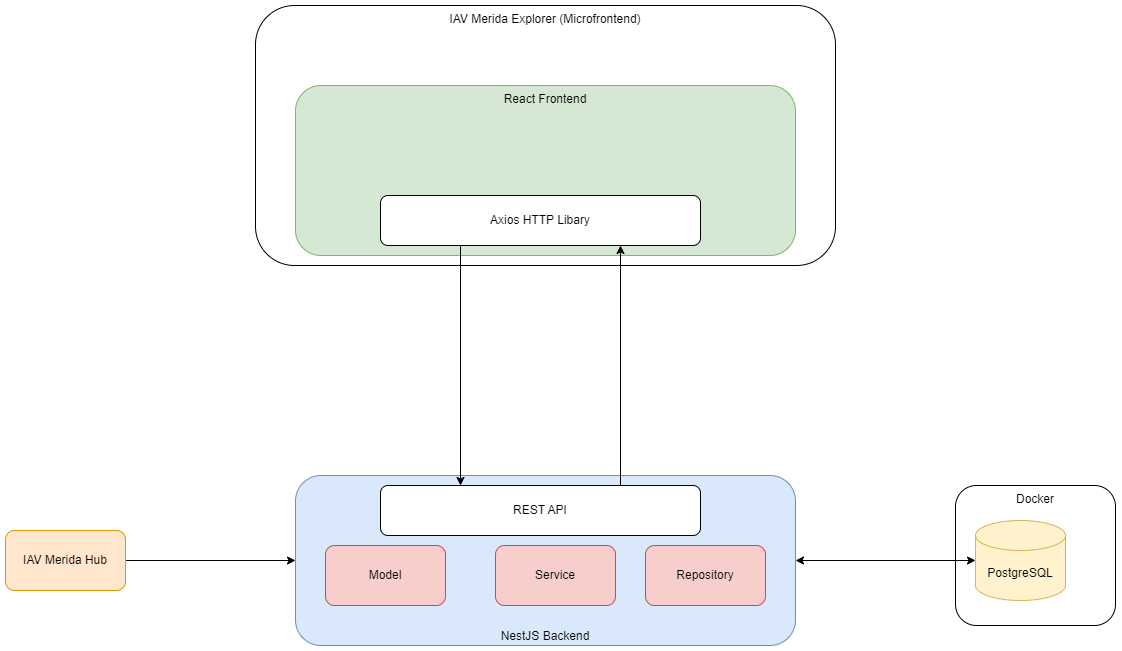
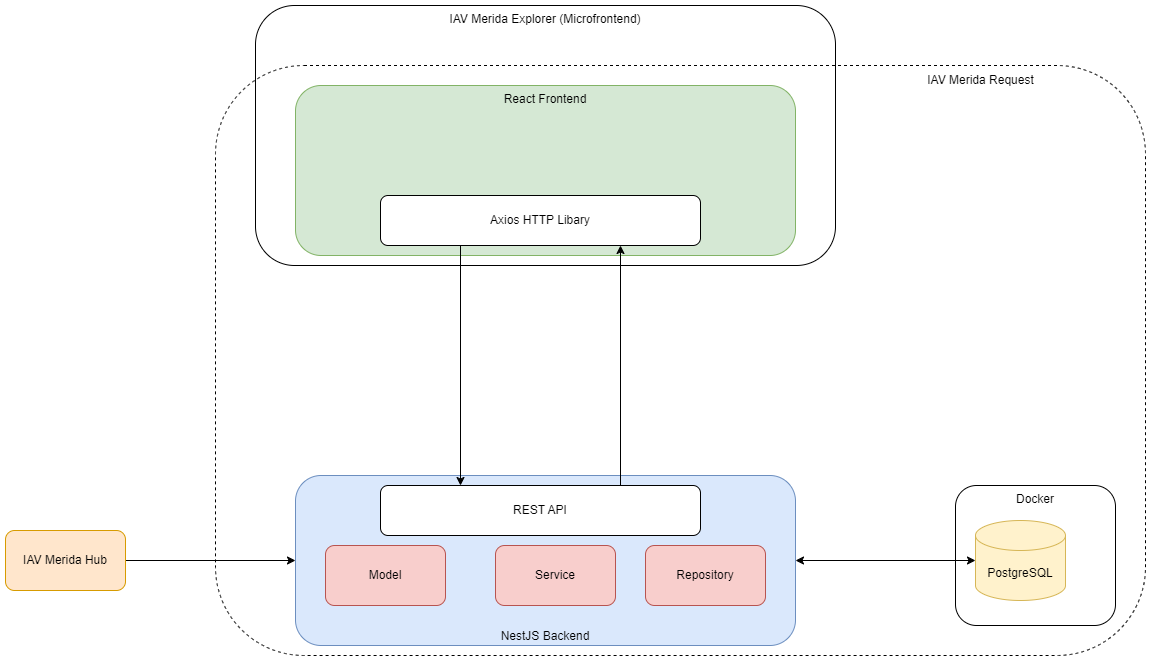
finish

diff --git a/chapter/5-chapter.tex b/chapter/5-chapter.tex
@@ -1,5 +1,5 @@
 \chapter{Konzeption}
-In diesem Kapitel wird der konzeptionelle Entwurf der entwickelten Lösung detailliert beschrieben. Die Konzeption umfasst alle wesentlichen Aspekte der Benutzeroberfläche, der Prozessabläufe sowie der Systemarchitektur. Dabei war es entscheidend, sowohl die technischen Anforderungen als auch die Nutzerbedürfnisse optimal zu berücksichtigen.
+In diesem Kapitel wird der konzeptionelle Entwurf der entwickelten Lösung detailliert beschrieben. Die Konzeption umfasst alle wesentlichen Aspekte der Benutzeroberfläche, der Prozessabläufe sowie der Systemarchitektur. Dabei war es entscheidend, sowohl die Nutzerbedürfnisse als auch die technischen Anforderungen optimal zu berücksichtigen.
 \newline
 Zunächst werden die Mockups vorgestellt, die die geplanten Benutzeroberflächen visualisieren. Diese grafischen Entwürfe dienen als Grundlage für die spätere Implementierung der Benutzeroberfläche und helfen dabei, die Nutzerinteraktionen und das Design bereits in der frühen Phase des Projekts zu planen.
 \newline
@@ -8,7 +8,7 @@ Daraufhin wird der Workflow des Anfrageprozesses dargestellt, um die Abfolge und
 Abschließend wird die Systemarchitektur präsentiert, die das fundamentale Gerüst der gesamten Anwendung bildet. Die Architektur beschreibt die wichtigsten Komponenten und deren Interaktionen, um eine stabile, skalierbare und erweiterbare Lösung zu gewährleisten.
 \newpage
 \section{Mockups}
-Im Verlauf der Entwicklung des IAV Merida Request wurden regelmäßig Gespräche mit verschiedenen Stakeholdern geführt. Diese Interaktionen führten zur schrittweisen Anpassung der Mockups, die auf den gewonnenen Erkenntnissen basierten. Dadurch konnten die Mockups kontinuierlich an die sich entwickelnden Anforderungen und das gewünschte User Interface angepasst werden. Im Folgenden wird der Entwicklungsprozess der Mockups sowie deren verschiedene Versionen detailliert dargestellt.
+Im Verlauf der Entwicklung des IAV Merida Request wurden regelmäßig Gespräche mit verschiedenen Stakeholdern geführt. Dadurch konnten die Mockups kontinuierlich an die sich entwickelnden Anforderungen und das gewünschte User Interface angepasst werden. Im Folgenden wird der Entwicklungsprozess der Mockups sowie deren verschiedene Versionen detailliert dargestellt.
 \subsection*{Mockup 1}
 In der ersten Version der Mockups, s. Abbildung \ref{fig:MockUps1.0}, orientierten sich die Designentscheidungen stark am BMW Request Channel. Die Struktur und die Benutzeroberfläche in dieser Phase waren relativ einfach gehalten, mit einem klaren Fokus auf die wesentlichen Eingabefelder und -optionen, die für das Anfordern von Daten und Analysen benötigt wurden.
 \newline
@@ -44,7 +44,7 @@ Wichtige Änderungen in dieser Version:
 \begin{figure}[H]
     \centering
     \includegraphics[scale=.25]{media/MockUps3.0}
-    \caption{Mockup 3}
+    \caption{Mockup 3 - Für eine Version in höherer Auflösung siehe Anhang \ref{fig: MockUps3.0_1} und \ref{fig: MockUps3.0_2}}
     \label{fig:MockUps3.0}
 \end{figure}
 Zusammenfassend lässt sich sagen, dass sich das IAV Merida Request Tool durch einen iterativen Entwicklungsprozess erheblich weiterentwickelt hat. Während Mockup 1 noch stark an bestehende Lösungen angelehnt war, strebte Mockup 2 bereits ein eigenständiges Design mit klareren Nutzerführungen an. Mit Mockup 3 erreicht das Tool nun ein hohes Maß an Benutzerfreundlichkeit, Flexibilität und Funktionalität, dass den Anforderungen der Benutzer in vollem Umfang gerecht wird.
@@ -77,7 +77,7 @@ Sobald die Analyse abgeschlossen und alle offenen Punkte geklärt sind, wird das
 Die Architektur der entwickelten Softwarelösung basiert auf modernen, skalierbaren und wartbaren Technologien, die auf die spezifischen Anforderungen des Projekts abgestimmt sind. Das System besteht aus drei Hauptkomponenten: dem Backend, das mit NestJS entwickelt wurde, dem Frontend das auf React basiert und einer relationalen Datenbank, die durch PostgreSQL unterstützt wird. Um eine flexible und isolierte Datenbankumgebung zu gewährleisten wird PostgreSQL über Docker containerisiert, was eine einfache Bereitstellung und Verwaltung verschiedener Entwicklungs- und Produktionsumgebungen ermöglicht (s. Abbildung \ref{fig:Architekturdiagramm}). 
 \newline
 \newline
-Das Frontend wird im Rahmen einer Microfrontend-Architektur entwickelt, bei der das React-basierte Interface als eine von mehreren Anwendungen innerhalb eines größeren Systems integriert wird. Diese Architektur ermöglicht es, unterschiedliche Frontends, die mit verschiedenen Technologien entwickelt wurden, nahtlos zu kombinieren und gleichzeitig eine modulare Struktur beizubehalten. Jede Anwendung (Microfrontend) ist in sich eigenständig, kann aber über standardisierte Schnittstellen miteinander kommunizieren. Auf diese Weise können unterschiedliche Technologien und Teams gleichzeitig an verschiedenen Microfrontends arbeiten, was die Flexibilität und Skalierbarkeit des Systems erhöht.
+Das Frontend wird als Teil einer Microfrontend-Architektur entwickelt, wobei das React-basierte Interface mithilfe von Webpack Module Federation eingebunden wird.Diese Architektur ermöglicht es, unterschiedliche Frontends, die mit verschiedenen Technologien entwickelt wurden, nahtlos zu kombinieren und gleichzeitig eine modulare Struktur beizubehalten. Jede Anwendung (Microfrontend) ist in sich eigenständig, kann aber über standardisierte Schnittstellen miteinander kommunizieren. Auf diese Weise können unterschiedliche Technologien und Teams gleichzeitig an verschiedenen Microfrontends arbeiten, was die Flexibilität und Skalierbarkeit des Systems erhöht.
 \newline
 \newline
 NestJS bietet eine robuste und strukturierte Grundlage für die Backend-Entwicklung. Die serviceorientierte Architektur in Kombination mit der \ac{MVC}-Ansatz, wie ihn NestJS vorgibt, stellt sicher, dass die Geschäftslogik effizient isoliert und die verschiedenen Komponenten voneinander getrennt sind.
@@ -94,11 +94,11 @@ Mittels der folgenden Abbildung wird verdeutlicht, wie die einzelnen Schichten m
 \end{figure}
 Ein zusätzliches Komponentendiagramm (s. Abbildung \ref{fig:Komponentendiagramm}) zeigt die Schnittstellen zwischen Backend, Frontend und Datenbank sowie die Verbindung zu externen Systemen. Es verdeutlicht, wie das Backend die im IAV Merida Hub gespeicherten Flotten- und Fahrzeugdaten abruft, sodass Nutzer im Frontend Flotten und – optional – Fahrzeuge auswählen kann, für die sie Messdaten und Analysen einsehen möchten.
 \newline
-Neben dem Merida Request-Modul bietet der IAV Merida Explorer aktuell weitere Module. Dazu gehören der Merida Transmitter für den gesicherten und automatisierten Upload von Messdaten aus verschiedenen Quellen, der Merida Signals Web für einen direkten Einblick in die verfügbaren Messdaten sowie der Merida Finder, der durch eine spezielle Suchmaske komplexe Suchanfragen über alle Messungen hinweg ermöglicht. Das Merida Dashboard visualisiert schließlich verschiedene Analysen der gesammelten Daten.
+Neben dem Merida Request-Modul bietet der IAV Merida Explorer aktuell weitere Module. Dazu gehören der IAV Merida Transmitter für den gesicherten und automatisierten Upload von Messdaten aus verschiedenen Quellen, der IAV Merida Signals Web für einen direkten Einblick in die verfügbaren Messdaten sowie der IAV Merida Finder, der durch eine spezielle Suchmaske komplexe Suchanfragen über alle Messungen hinweg ermöglicht. Das IAV Merida Dashboard visualisiert schließlich verschiedene Analysen der gesammelten Daten.
 \newline
-Für die Zukunft ist die Integration einer Schnittstelle zu Confluence geplant, um den Analysten eine erleichterte Dokumentation einzelner Anfragen zu ermöglichen.
+Für die Zukunft ist die Integration einer Schnittstelle zu Confluence geplant, um den Analysten einen standisierten Ticketabschluss inklusiver teilautomatisierten Dokumentation einzelner Anfragen zu ermöglichen.
 \newline
-Außerdem ist noch unklar, wie die Verwaltung der Daten- und Analyseanfragen erfolgen soll. Im Gespräch ist derzeit Jira, das als Ticketsystem für Anfragen dienen könnte, um die Zuweisung an Analysten zu erleichtern und einen besseren Überblick über die offenen Aufgaben zu gewährleisten. Allerdings gab es in der Vergangenheit einige Schwierigkeiten mit Jira, weshalb noch zu prüfen ist, ob Jira tatsächlich eine geeignete Lösung darstellt oder ob eine Eigenimplementierung sinnvoller wäre.
+Noch ist unklar, wie die Verwaltung der Daten- und Analyseanfragen erfolgen soll. Im Gespräch ist derzeit Jira, das als Ticketsystem für Anfragen dienen könnte, um die Zuweisung an Analysten zu erleichtern und einen besseren Überblick über die offenen Aufgaben zu gewährleisten. Erfahrungswerte des BMW Projekts zeigten bereits Vor- und Nachteile von Jira auf, weshalb noch zu prüfen ist, ob Jira tatsächlich eine geeignete Lösung darstellt oder ob eine Eigenimplementierung sinnvoller wäre.
 \begin{figure}[H]
     \centering
     \includegraphics[scale=.4]{media/Komponentendiagramm}

diff --git a/chapter/2-grundlagen.tex b/chapter/2-grundlagen.tex
@@ -12,19 +12,19 @@ Mittels des EU Data Acts soll ein fairer Wettbewerb geschaffen werden, da aktuel
 \newline
 Auch IAV ist direkt vom EU Data Act betroffen und benötigt ein spezifisches Tool, um externe Anfragen nach Daten regelkonform bearbeiten zu können. Dies betrifft insbesondere die gesetzlich vorgeschriebenen Anforderungen an den Datenaustausch und die Transparenz der Nutzung, wie sie im EU Data Act festgelegt sind.
 \newline
-Neben dem externen Bedarf durch den EU Data Act ist der IAV Merida Request jedoch auch von entscheidender Bedeutung für interne Abläufe bei IAV. Momentan fehlt eine zentrale Plattform, über die Kunden von IAV Anfragen nach Messdaten oder Analysen stellen können, um auf die im Unternehmen gesammelten Daten zuzugreifen. Ein solches System ist unerlässlich, um intern effizienter arbeiten zu können und den Datenfluss zu verbessern. 
+Neben dem externen Bedarf durch den EU Data Act ist der IAV Merida Request jedoch auch von entscheidender Bedeutung für interne Abläufe bei IAV. Der IAV Merida Request soll einen Kanal etablieren, der Kunden und IAV-Mitarbeitern einen effizienten und strukturierten Workflow ermöglicht.
 \newline
 \newline
-Im Rahmen dieses Studentenprojekts wird eine Whitelabel-Version des BMW RequestChannel entwickelt, der bereits für BMW existiert. Diese Plattform dient BMW als zentrale Anlaufstelle für Analyseanfragen und könnte in ähnlicher Weise für IAV als Datenmanagement- und Anfragetool eingesetzt werden. Die Whitelabel-Version soll als flexible und anpassbare Lösung entwickelt werden, die sowohl interne als auch externe Anforderungen erfüllt.
+Im Rahmen dieses Studentenprojekts wird eine Whitelabel-Version des BMW RequestChannel entwickelt. Diese Plattform dient BMW als zentrale Anlaufstelle für Analyseanfragen und könnte in ähnlicher Weise für IAV als Datenmanagement- und Anfragetool eingesetzt werden. Die Whitelabel-Version soll als flexible und anpassbare Lösung entwickelt werden, die sowohl interne als auch externe Anforderungen erfüllt.
 \newline
 Der BMW RequestChannel ist Teil des BMW \ac{CPIC} und ermöglicht es, neue Analyseanfragen zu verschiedenen Datenquellen zu stellen, wenn keine bestehenden Auswertungen über die \ac{CPIC}-Kanäle verfügbar sind. Auf ähnliche Weise soll der IAV Merida Request nicht nur intern genutzt werden, sondern später auch den Anforderungen des EU Data Act gerecht werden, indem es Anfragen von Dritten entsprechend verwaltet und bearbeitet. 
 \newline
 Die verschiedenen Use Cases, die mögliche Einsatzszenarien des Tools beschreiben, wurden ausgearbeitet und werden im späteren Verlauf des Berichts näher erläutert. Im Rahmen dieses Studentenprojekts liegt der Schwerpunkt jedoch auf dem ersten Use Case, „Projektinterne Anfragen über den IAV Merida Projektexplorer“. Dieser wird detailliert beschrieben und dient als Grundlage für die technische Implementierung.
 \section{Ziele des Projekts}
-Das Hauptziel des Projekts besteht darin, das bestehende BMW RequestChannel-Tool durch Whitelabeling an die spezifischen Anforderungen und das Branding der IAV GmbH anzupassen. Whitelabeling bedeutet in diesem Kontext, das Tool so zu modifizieren, dass es optisch, funktional und markentechnisch in die IAV-Umgebung integriert wird. Dies umfasst Änderungen am Benutzerinterface, um es mit den \ac{CI/CD} von IAV anzupassen. Neben der visuellen Anpassung ist es auch notwendig, sicherzustellen, dass die Software den spezifischen technischen und funktionalen Bedürfnissen von IAV entspricht. Dies könnte etwa spezielle Workflows oder Zugriffsrechte beinhalten, die für IAV-Nutzer relevant sind. Das Ziel ist es, das Tool so zu gestalten, dass es nicht nur optisch, sondern auch funktional perfekt in die Arbeitsumgebung und die Prozesskette von IAV integriert wird.
+Das Hauptziel des Projekts besteht darin, das bestehende BMW RequestChannel-Tool durch Whitelabeling an die spezifischen Anforderungen und das Branding der IAV GmbH anzupassen. Whitelabeling bedeutet in diesem Kontext, das Tool so zu modifizieren, dass es optisch, funktional und markentechnisch in die IAV-Umgebung integriert wird. Dies umfasst Änderungen am Benutzerinterface, um es mit den \ac{CI/CD} von IAV anzupassen. Neben der visuellen Anpassung ist es auch notwendig, sicherzustellen, dass die Software den spezifischen technischen und funktionalen Bedürfnissen von IAV entspricht. Dies könnte etwa spezielle Workflows oder Zugriffsrechte beinhalten, die für IAV-Nutzer relevant sind.
 \newline
 \newline
-Ein weiteres zentrales Ziel des Projekts ist die reibungslose Integration des angepassten RequestChannel-Tools in die bestehende IAV Merida Toolkette. Die IAV Merida Toolkette bietet eine Infrastruktur für die Nutzung und Verwaltung von Messdaten sowie für Analysen und andere Entwicklungsprozesse. Es ist entscheidend, dass das Tool nahtlos in diese Umgebung eingebettet wird, damit Benutzer direkt auf das Tool zugreifen und es effizient in ihre bestehenden Arbeitsprozesse integrieren können. Dies umfasst die Integration der Kommunikationsschnittstellen, die Datenübertragung zwischen den verschiedenen Tools sowie die Sicherstellung, dass das RequestChannel-Tool innerhalb der Merida-Plattform einwandfrei funktioniert. Durch diese Integration wird der Prozess der Messdatenverwaltung und -analyse optimiert.
+Ein weiteres zentrales Ziel des Projekts ist die reibungslose Integration des angepassten RequestChannel-Tools in die bestehende IAV Merida Toolkette. Die IAV Merida Toolkette bietet eine Infrastruktur für die Nutzung und Verwaltung von Messdaten sowie für Analysen und andere Entwicklungsprozesse. Es ist entscheidend, dass das Tool nahtlos in diese Umgebung eingebettet wird, damit Benutzer direkt auf das Tool zugreifen und es effizient in ihre bestehenden Arbeitsprozesse integrieren können. Dies umfasst die Integration der Kommunikationsschnittstellen, die Datenübertragung zwischen den verschiedenen Tools sowie die Sicherstellung, dass das RequestChannel-Tool innerhalb der Merida-Plattform stabil und zuverlässig läuft. Durch diese Integration wird der Workflow zur Bereitstellung von Daten- und Analysen optimiert. 
 \newline
 \newline
 Zudem müssen die vorher definierten Use Cases, die eine Erweiterung der Nutzungsmöglichkeiten des Tools beschreiben, implementiert werden. Diese Use Cases sind oft auf spezielle Arbeitsprozesse, Bedürfnisse oder Herausforderungen innerhalb von IAV zugeschnitten. Die Erweiterung der Funktionalitäten kann beispielsweise die Implementierung zusätzlicher Automatisierungsfunktionen, Berichts- und Analyseoptionen oder die Integration neuer Schnittstellen betreffen. 

diff --git a/chapter/4-chapter.tex b/chapter/4-chapter.tex
@@ -2,19 +2,19 @@
 
 Im Rahmen des Projekts wurden drei zentrale Use Cases herausgearbeitet, die die verschiedenen Anwendungsszenarien des modifizierten RequestChannel-Tools beschreiben. Jeder Use Case adressiert spezifische Anforderungen und Anwendungsfälle, die für die IAV-Nutzer von hoher Relevanz sind. Die erfolgreiche Implementierung dieser Use Cases erweitert die Funktionalität des Tools und optimiert die Arbeitsabläufe bei der Anfrage von Analysen und Messdaten.
 \section{Projektinterne Anfragen über den IAV Merida Projektexplorer}
-Der Haupt-Use Case, welcher in diesem Projekt umgesetzt wurde, betrifft die projektinternen Anfragen von Messdaten und Analysen durch den Kunden. Über den IAV Merida Request haben die Kunden die Möglichkeit, Daten, die für bestimmte Projekte relevant sind, anzufragen. Dieser Anwendungsfall unterstützt die Optimierung der internen Arbeitsabläufe und verbessert den Zugriff auf projektbezogene Informationen, die für die Entwicklung und Analyse von großer Bedeutung sind.
+Der Haupt-Use Case, welcher in diesem Projekt umgesetzt wurde, betrifft die projektinternen Anfragen von Messdaten und Analysen durch den Kunden. Über IAV Merida Request haben die Kunden die Möglichkeit, Daten, die für bestimmte Projekte relevant sind, anzufragen. Dieser Anwendungsfall unterstützt die Optimierung der internen Arbeitsabläufe und verbessert den Zugriff auf projektbezogene Informationen, die für die Entwicklung und Analyse von großer Bedeutung sind.
 \newline
-Der Merida Hub dient als eine Plattform, über die Mitarbeiter spezifische Messdaten anfordern können. Hierbei handelt es sich vor allem um Kundendaten, die während der Erprobungsfahrten eingefahren wurden. Der Anforderungsprozess über das IAV Merida Request-Tool ermöglicht es den Nutzern, gezielte Anfragen nach Daten oder Analysen zu stellen und diese in einem einheitlichen Format zu erhalten, was die weitere Bearbeitung erleichtert.
+Der Merida Hub \footnote[1]{Der IAV Merida Hub ist die Datan- und Analyseplattform. Hier werden die Daten verwaltet und bereitgestellt. Eine Anfrage zu bestimmten Daten oder Analysen kann über den RequestChannel erfolgen.}dient als eine Plattform, über die Mitarbeiter spezifische Messdaten anfordern können. Hierbei handelt es sich vor allem um Kundendaten, die während der Erprobungsfahrten eingefahren wurden. Der Anforderungsprozess über das IAV Merida Request-Tool ermöglicht es den Nutzern, gezielte Anfragen nach Daten oder Analysen zu stellen und diese in einem einheitlichen Format zu erhalten, was die weitere Bearbeitung erleichtert.
 \newline
-Nachdem der Data Analyst die Anfrage bearbeitet hat, bekommt der Anfragende eine Rückmeldung. Über den Merida Explorer kann der Kunde dann auf die freigegebenen Daten oder Analysen zugreifen und diese für sein Projekt nutzen. Die Sicherheit der Datenübertragung spielt dabei eine wesentliche Rolle, um sicherzustellen, dass alle sensiblen Informationen geschützt bleiben und nur autorisierte Personen Zugriff erhalten.
+Nachdem der Data Analyst die Anfrage bearbeitet hat, bekommt der Anfragende eine Rückmeldung. Über den Merida Explorer kann der Kunde dann auf die freigegebenen Daten oder Analysen zugreifen und diese für sein Projekt nutzen. Die Sicherheit der Datenbereitstellung spielt dabei eine wesentliche Rolle, um sicherzustellen, dass alle sensiblen Informationen geschützt bleiben und nur autorisierte Personen Zugriff erhalten.
 \newline
-Der Kunde kann die übermittelten Daten oder Analysen anschließend zur Untersuchung der Fahrzeugleistung und -zuverlässigkeit verwenden. Dies ermöglicht es ihm, gezielte Optimierungen an seinen Produkten vorzunehmen, was wiederum zur Verbesserung der Produktqualität und zur Effizienzsteigerung führt.
+Der Kunde kann die bereitgestellten Daten oder Analysen anschließend zur Untersuchung der Fahrzeugleistung und -zuverlässigkeit verwenden. Dies ermöglicht es ihm, gezielte Optimierungen an seinen Produkten vorzunehmen, was wiederum zur Verbesserung der Produktqualität und zur Effizienzsteigerung führt.
 \newline
 Das folgende Diagramm veranschaulicht diesen Use Case für Kundenanfragen.
 \begin{figure}[H]
     \centering
     \includegraphics[scale=.6]{media/UseCase2}
-    \caption{UseCase2}
+    \caption{Use Case 1}
     \label{fig:UseCase2}
 \end{figure}
 \newpage
@@ -36,7 +36,7 @@ Das folgende Diagramm veranschaulicht diesen Use Case für Kundenanfragen.
   \begin{figure}[H]
       \centering
       \includegraphics[scale=.6]{media/UseCase1}
-      \caption{UseCase1}
+      \caption{Use Case 2}
       \label{fig:UseCase1}
   \end{figure}
 \newpage
@@ -58,7 +58,7 @@ Das nachstehende Diagramm veranschaulicht den Use Case für die Anfrage von Date
 \begin{figure}[H]
     \centering
     \includegraphics[scale=.6]{media/UseCase3}
-    \caption{UseCase3}
+    \caption{Use Case 3}
     \label{fig:UseCase3}
   \end{figure}
 \label{chap:kapitel4}

diff --git a/chapter/9-zusammenfassung-ausblick.tex b/chapter/9-zusammenfassung-ausblick.tex
@@ -1,5 +1,6 @@
 \chapter{Zusammenfassung und Ausblick}
-
-\section{Zusammenfassung}
-
-\section{Ausblick}
+In diesem Praxisbericht wird die Entwicklung des IAV Merida Request-Tools vorgestellt – einer maßgeschneiderten Lösung zur strukturierten Bearbeitung von Daten- und Analyseanfragen. Ziel des Projekts war es, mithilfe einer Whitelabel-Version des BMW RequestChannels ein Tool zu schaffen, das speziell auf die Anforderungen der IAV GmbH zugeschnitten ist. Die Anwendung ermöglicht es, den Workflow zur Bereitstellung von Daten und Analysen effizienter zu gestalten und so die internen Abläufe zu optimieren. Der Fokus lag dabei auf der Umsetzung des ersten Use Cases „Projektinterne Anfragen über den IAV Merida Projektexplorer“, der es Kunden ermöglicht, gezielt Messdaten und Analysen für spezifische Projekte anzufordern.
+\newline
+Die Projektarbeit umfasste mehrere Phasen: Zunächst wurden spezifische Use Cases definiert, die als Basis für die Funktionalitäten und das Design des Tools dienten. Anschließend erfolgte die Konzeption der Systemarchitektur und der Benutzeroberfläche, um eine optimale technische Grundlage sowie eine benutzerfreundliche Bedienung zu gewährleisten. Der Designprozess der Mockups spielte eine zentrale Rolle, um das Interface klar und intuitiv zu gestalten und den Workflow für die Endbenutzer zu vereinfachen. Schließlich wurde die Implementierung der Funktionalitäten und des User Interfaces durchgeführt und abgeschlossen, sodass das IAV Merida Request-Tool alle Anforderungen des ersten Use Cases vollständig erfüllt.
+\newline
+Für zukünftige Projekte bieten sich zahlreiche Erweiterungsmöglichkeiten an, um das Tool weiter auszubauen. So könnte die Integration einer Confluence-Schnittstelle eine automatisierte Dokumentation der Anfragen ermöglichen. Auch der Einsatz eines Ticketsystems wie Jira wäre denkbar, um die Verwaltung und Zuweisung von Anfragen an Analytiker und andere Mitarbeiter effizienter zu gestalten. Diese Erweiterungen könnten die Effizienz und Nachverfolgbarkeit des Anfrageprozesses weiter verbessern und das Tool noch stärker in bestehende Arbeitsabläufe einbinden.

diff --git a/misc/appendix.tex b/misc/appendix.tex
@@ -1,4 +1,16 @@
-\chapter{Anhang A}
+\chapter{Anhang}
+\begin{figure}[H]
+    \centering
+    \includegraphics[scale=.39]{media/MockUps3.0_1.png}
+    \caption{Mockup 3}
+    \label{fig: MockUps3.0_1}
+\end{figure}
+\begin{figure}[H]
+    \centering
+    \includegraphics[scale=.39]{media/MockUps3.0_2.png}
+    \caption{Mockup 3}
+    \label{fig: MockUps3.0_2}
+\end{figure}
 \label{chap:anhang_a}
 
 

diff --git a/thesis.tex b/thesis.tex
@@ -23,7 +23,7 @@
 \setcounter{page}{1}
 \pagenumbering{Roman}
 \include{misc/affirmation}
-\include{misc/abstract}
+%\include{misc/abstract}
 \include{misc/tables}
 \include{misc/acronym}
 

diff --git a/preamble/packages.tex b/preamble/packages.tex
@@ -53,3 +53,5 @@
     morestring=[b]",
     morestring=[b]'
 }
+
+\usepackage{longtable}
